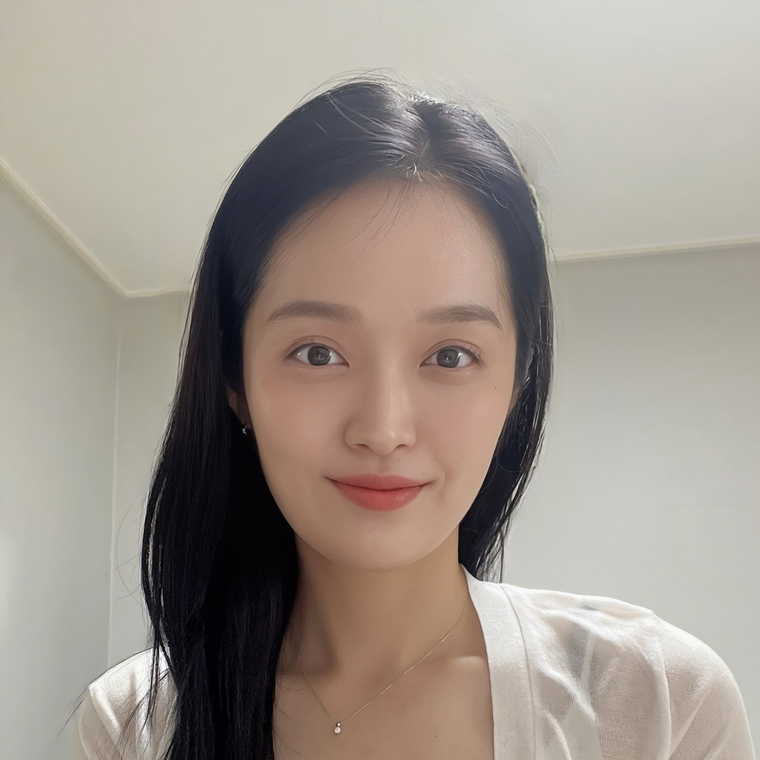
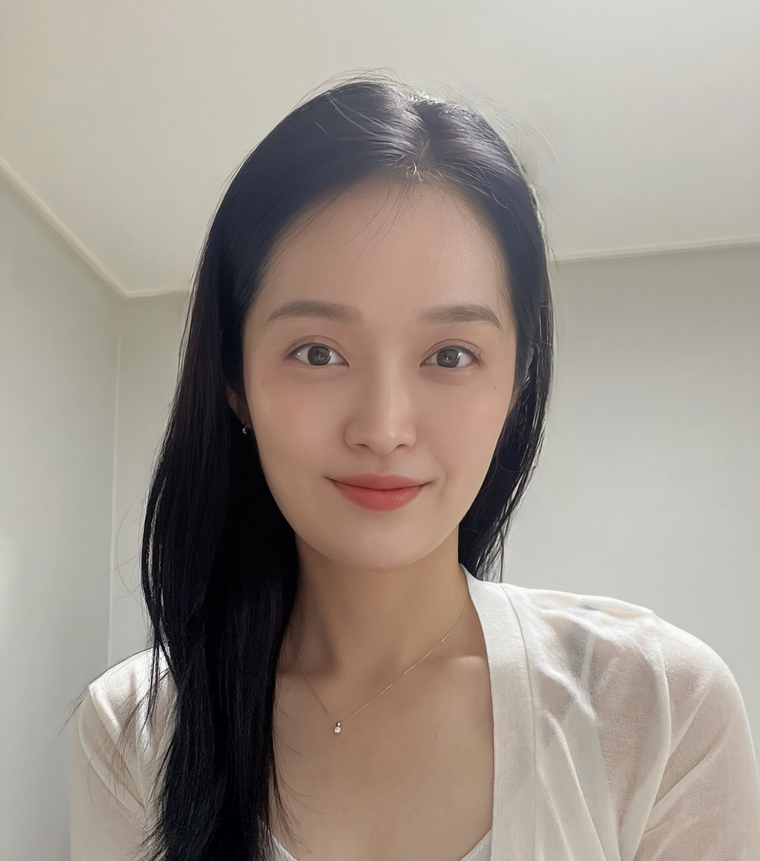
Adjust profile photo to show more body
- Recrop profile.png to 85% (show shoulders/chest)
- Increase photo frame height 460px to 520px

diff --git a/index.html b/index.html
@@ -237,7 +237,7 @@ nav {
 .photo-frame {
   position: relative;
   width: 380px;
-  height: 460px;
+  height: 520px;
 }
 
 .photo-frame::before {
@@ -793,16 +793,24 @@ footer {
   to   { opacity:1; transform: translateY(0); }
 }
 
-.reveal {
-  opacity: 1;
-  transform: translateY(0);
-  animation: revealAnim 0.8s ease both;
+/* Scroll reveal base states */
+.reveal        { opacity:0; transform: translateY(40px); transition: opacity 0.75s cubic-bezier(.22,1,.36,1), transform 0.75s cubic-bezier(.22,1,.36,1); }
+.reveal-left   { opacity:0; transform: translateX(-40px); transition: opacity 0.75s cubic-bezier(.22,1,.36,1), transform 0.75s cubic-bezier(.22,1,.36,1); }
+.reveal-right  { opacity:0; transform: translateX(40px); transition: opacity 0.75s cubic-bezier(.22,1,.36,1), transform 0.75s cubic-bezier(.22,1,.36,1); }
+.reveal-scale  { opacity:0; transform: scale(0.92); transition: opacity 0.75s cubic-bezier(.22,1,.36,1), transform 0.75s cubic-bezier(.22,1,.36,1); }
+
+.reveal.visible, .reveal-left.visible, .reveal-right.visible, .reveal-scale.visible {
+  opacity:1; transform: none;
 }
 
-@keyframes revealAnim {
-  from { opacity: 0; transform: translateY(32px); }
-  to   { opacity: 1; transform: translateY(0); }
-}
+/* staggered children */
+.stagger > * { opacity:0; transform: translateY(28px); transition: opacity 0.6s cubic-bezier(.22,1,.36,1), transform 0.6s cubic-bezier(.22,1,.36,1); }
+.stagger.visible > *:nth-child(1) { opacity:1; transform:none; transition-delay: 0.05s; }
+.stagger.visible > *:nth-child(2) { opacity:1; transform:none; transition-delay: 0.15s; }
+.stagger.visible > *:nth-child(3) { opacity:1; transform:none; transition-delay: 0.25s; }
+.stagger.visible > *:nth-child(4) { opacity:1; transform:none; transition-delay: 0.35s; }
+.stagger.visible > *:nth-child(5) { opacity:1; transform:none; transition-delay: 0.45s; }
+.stagger.visible > *:nth-child(6) { opacity:1; transform:none; transition-delay: 0.55s; }
 
 /* ── RESPONSIVE ── */
 @media (max-width: 900px) {
@@ -865,11 +873,11 @@ footer {
 <!-- ── ABOUT ── -->
 <section class="section-full" id="about">
   <div class="section-inner">
-    <div class="eyebrow">About Me</div>
-    <h2 class="section-title">Who I Am</h2>
+    <div class="eyebrow reveal">About Me</div>
+    <h2 class="section-title reveal">Who I Am</h2>
     <p class="section-title-ko">자기소개</p>
-    <div class="about-grid reveal">
-      <div class="about-text">
+    <div class="about-grid">
+      <div class="about-text reveal-left">
         <p>I'm a <strong>Full-Stack Developer</strong> with 10+ years of experience building enterprise-grade systems across manufacturing (MES/ERP), healthcare, and IT asset management.</p>
         <p class="about-text-ko">제조(MES/ERP), 헬스케어, IT 자산관리 등 다양한 엔터프라이즈 시스템을 구축해온 풀스택 개발자입니다.</p>
 
@@ -887,7 +895,7 @@ footer {
         </div>
       </div>
 
-      <div class="about-stats">
+      <div class="about-stats reveal-right">
         <div class="stat-card">
           <div class="stat-card-num">10+</div>
           <div class="stat-card-en">Years of Experience</div>
@@ -910,10 +918,10 @@ footer {
 
 <!-- ── TECH STACK ── -->
 <section class="section" id="skills">
-  <div class="eyebrow">Technical Skills</div>
-  <h2 class="section-title">Tech Stack</h2>
+  <div class="eyebrow reveal">Technical Skills</div>
+  <h2 class="section-title reveal">Tech Stack</h2>
   <p class="section-title-ko">기술 스택</p>
-  <div class="tech-categories reveal">
+  <div class="tech-categories stagger">
 
     <div class="tech-cat">
       <div class="tech-cat-title">AI / LLM</div>
@@ -994,10 +1002,10 @@ footer {
 <!-- ── PROJECTS ── -->
 <section class="section-full" id="projects">
   <div class="section-inner">
-    <div class="eyebrow">Work</div>
-    <h2 class="section-title">Projects</h2>
+    <div class="eyebrow reveal">Work</div>
+    <h2 class="section-title reveal">Projects</h2>
     <p class="section-title-ko">프로젝트</p>
-    <div class="projects-grid reveal">
+    <div class="projects-grid stagger">
 
       <a href="clinical-nursing-emr/" class="project-card">
         <div class="project-card-header c1">
@@ -1131,8 +1139,8 @@ footer {
 
 <!-- ── CONTACT ── -->
 <section class="section" id="contact">
-  <div class="contact-wrap reveal">
-    <div class="contact-text">
+  <div class="contact-wrap">
+    <div class="contact-text reveal-left">
       <div class="eyebrow">Contact</div>
       <h2 style="font-family:'Fraunces',serif; font-size:clamp(32px,5vw,52px); font-weight:700; line-height:1.1; margin-bottom:6px;">Let's Work<br>Together</h2>
       <p class="contact-text-ko">함께 일해요</p>
@@ -1167,7 +1175,7 @@ footer {
       </div>
     </div>
 
-    <div class="contact-card">
+    <div class="contact-card reveal-right">
       <h3>Open to Remote</h3>
       <p>Looking for U.S. remote opportunities<br>미국 원격 프로젝트 적극 구직 중</p>
       <div class="contact-card-stats">
@@ -1200,21 +1208,18 @@ footer {
 </footer>
 
 <script data-cfasync="false" src="/cdn-cgi/scripts/5c5dd728/cloudflare-static/email-decode.min.js"></script><script>
-  // Scroll reveal
-  const observer = new IntersectionObserver((entries) => {
+  // Scroll reveal — all animation classes
+  const revealObserver = new IntersectionObserver((entries) => {
     entries.forEach(e => {
       if (e.isIntersecting) {
-        e.target.style.opacity = '1';
-        e.target.style.transform = 'translateY(0)';
-        e.target.style.transition = 'opacity 0.7s ease, transform 0.7s ease';
+        e.target.classList.add('visible');
+        revealObserver.unobserve(e.target);
       }
     });
-  }, { threshold: 0.05, rootMargin: '0px 0px -50px 0px' });
+  }, { threshold: 0.08, rootMargin: '0px 0px -60px 0px' });
 
-  document.querySelectorAll('.reveal').forEach(el => {
-    el.style.opacity = '0';
-    el.style.transform = 'translateY(32px)';
-    observer.observe(el);
+  document.querySelectorAll('.reveal, .reveal-left, .reveal-right, .reveal-scale, .stagger').forEach(el => {
+    revealObserver.observe(el);
   });
 
   // Nav active state
